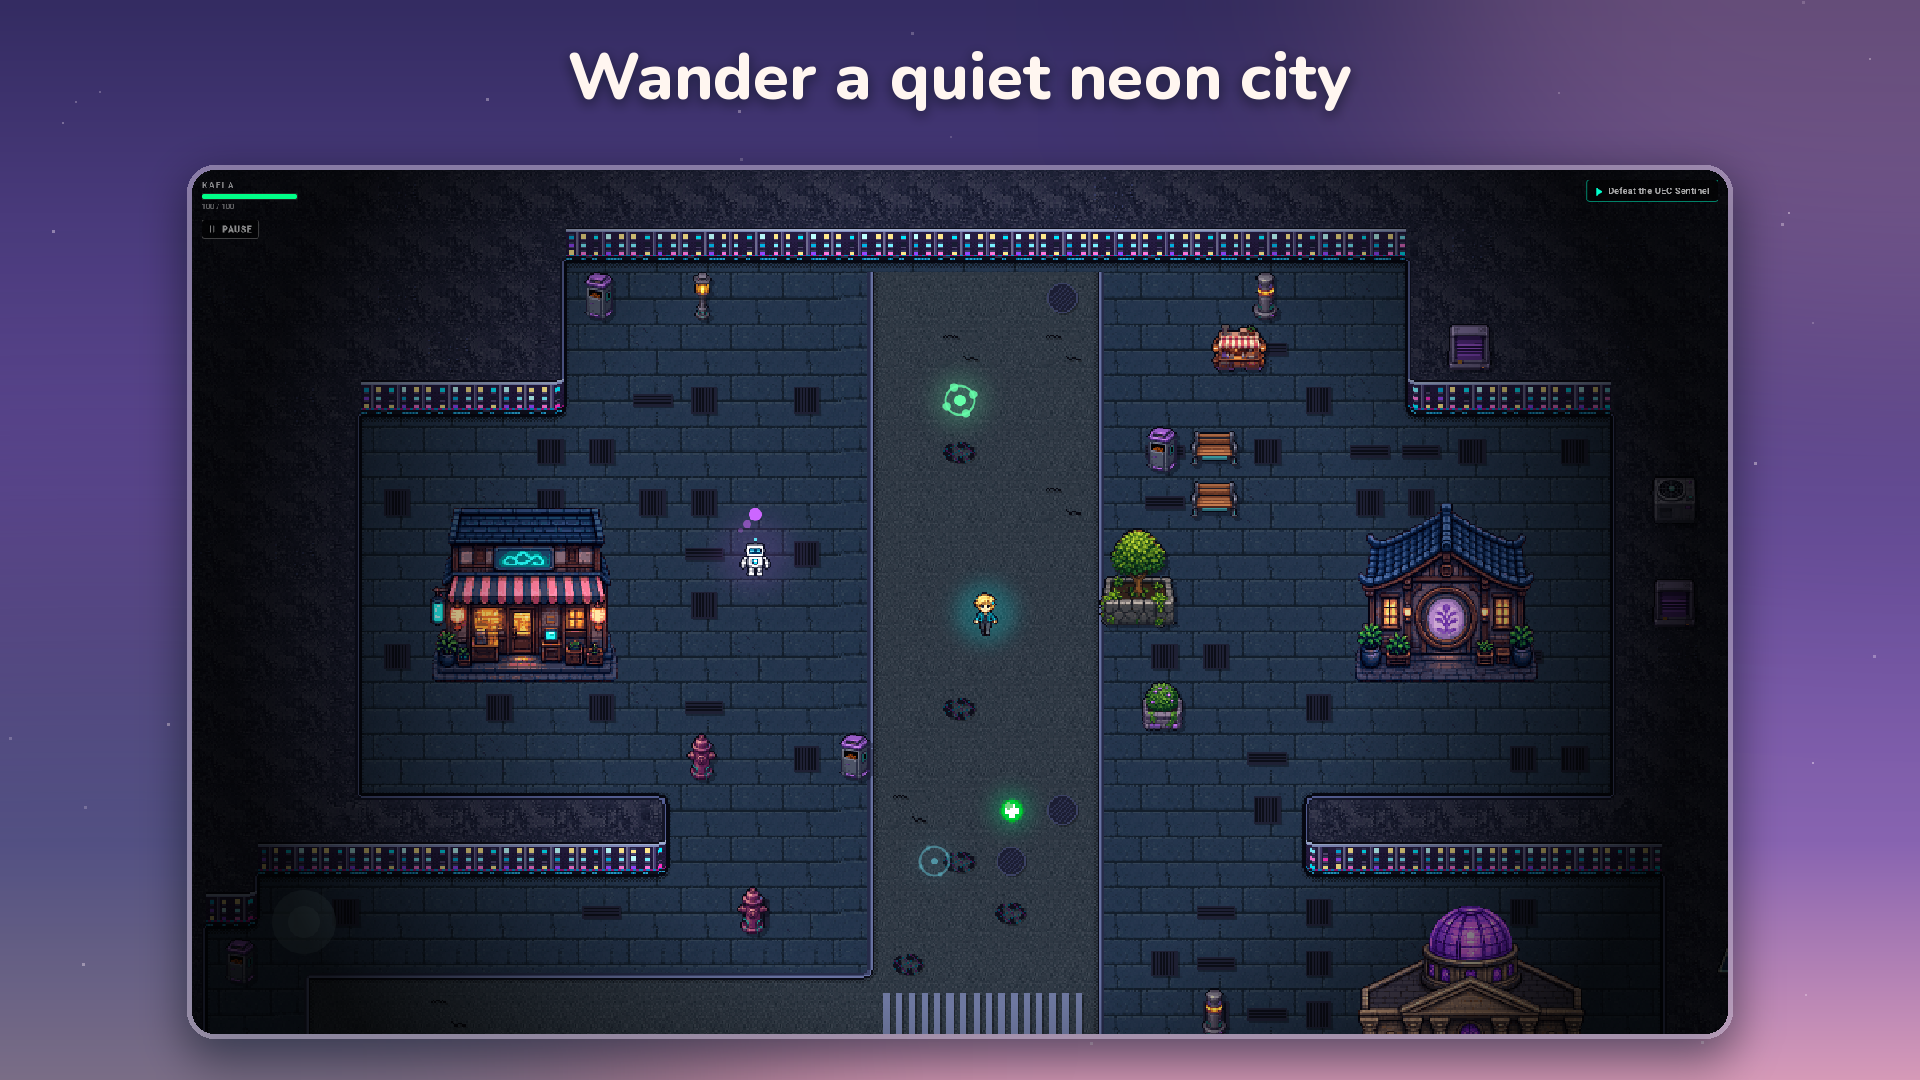
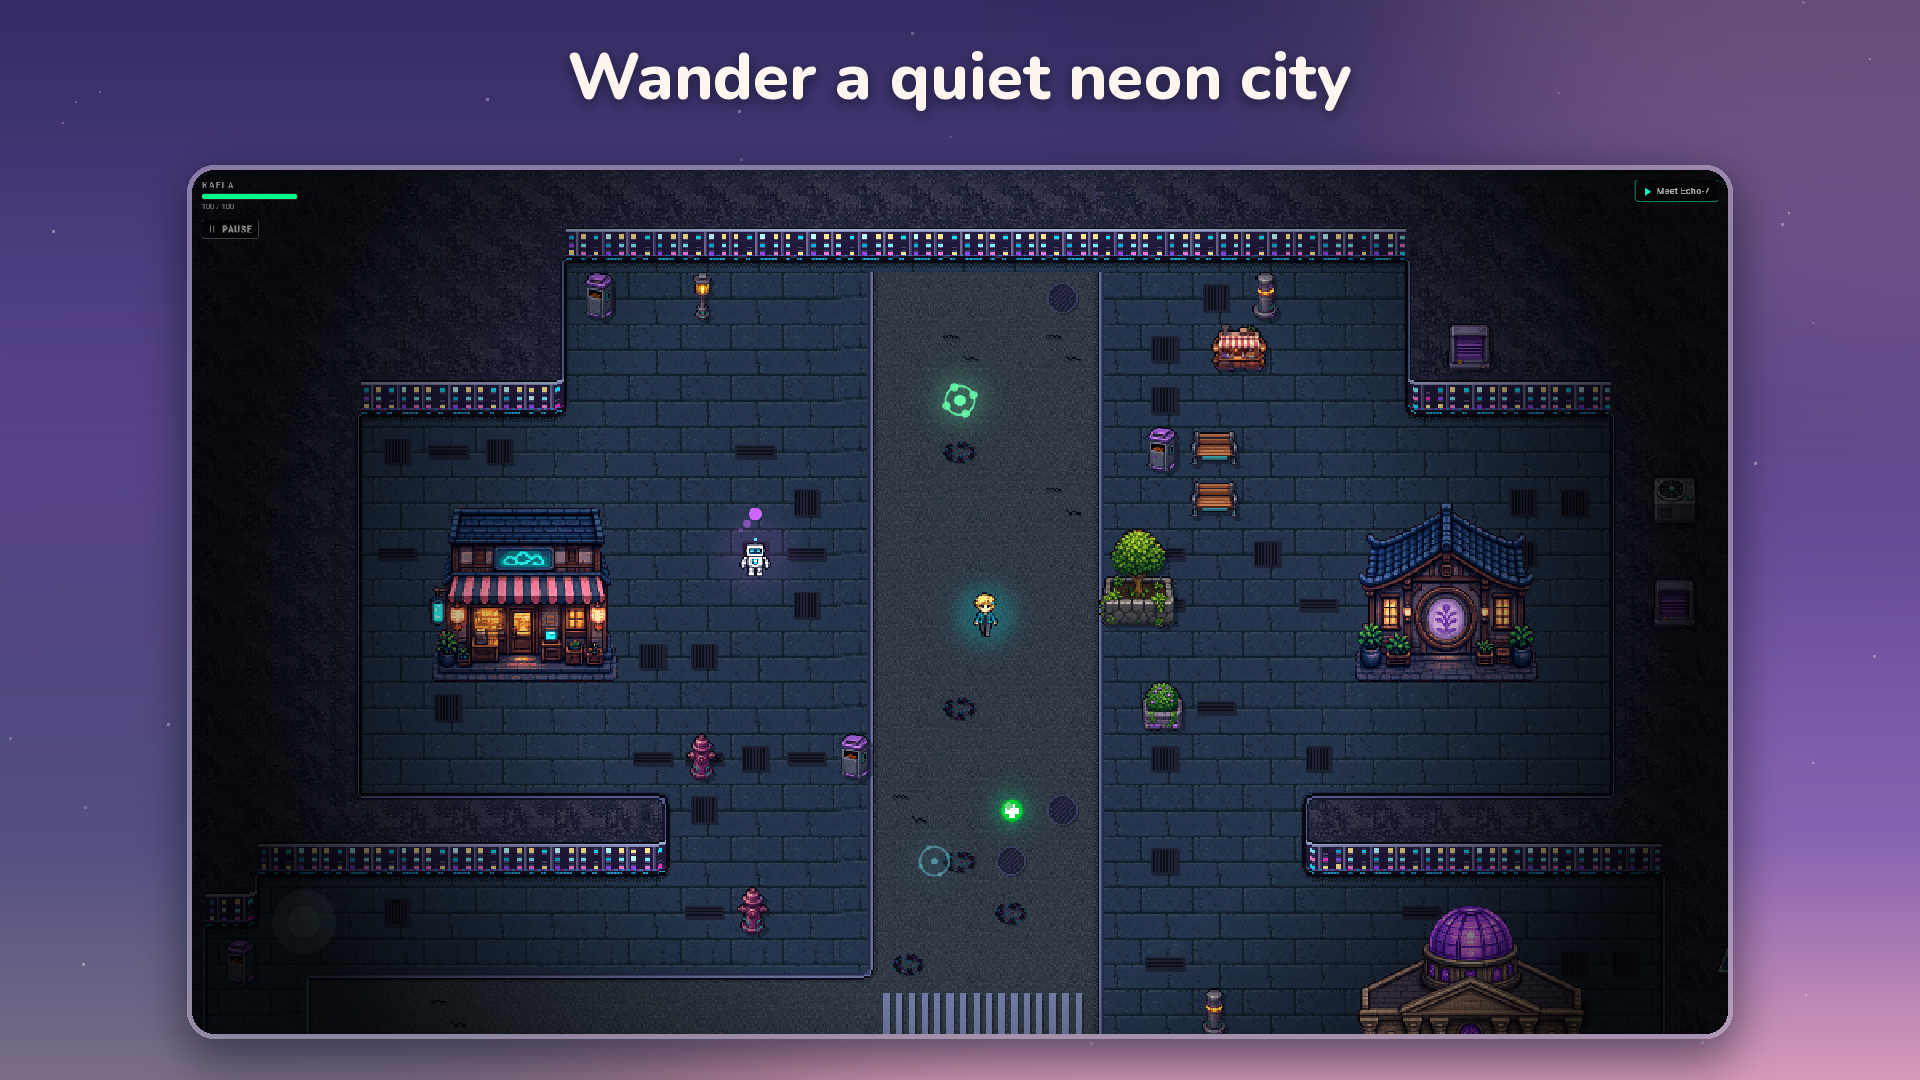
Calmer wording and reframed store shots 3 and 5 (#15)

diff --git a/lib/cyberpunk_space_rpg/game/custom_map_game.dart b/lib/cyberpunk_space_rpg/game/custom_map_game.dart
@@ -232,7 +232,7 @@ class IntroScreen extends StatelessWidget {
             mainAxisSize: MainAxisSize.min,
             children: [
               _CyberButton(
-                label: 'BEGIN MISSION',
+                label: 'BEGIN JOURNEY',
                 onTap: () => Navigator.of(context).pushReplacement(
                     MaterialPageRoute(builder: (_) => const CustomMapGameScreen())),
               ),
@@ -959,7 +959,7 @@ class _VictoryScreen extends StatelessWidget {
           child: Column(
             mainAxisSize: MainAxisSize.min,
             children: [
-              const Text('MISSION COMPLETE',
+              const Text('GAIA REMEMBERS',
                   style: TextStyle(
                       color: Color(0xFF00FFCC),
                       fontSize: 32,
@@ -1174,7 +1174,7 @@ class _CalmLayer extends StatelessWidget {
                         fontStyle: FontStyle.italic,
                         letterSpacing: 2)),
                 SizedBox(height: 10),
-                Text('signal lost · returning to the last checkpoint',
+                Text('returning to the last checkpoint',
                     style: TextStyle(color: Colors.white30, fontSize: 11, letterSpacing: 1.5)),
               ]),
             ),

diff --git a/lib/cyberpunk_space_rpg/game/game_state.dart b/lib/cyberpunk_space_rpg/game/game_state.dart
@@ -14,7 +14,7 @@ class GameState {
   static final portalUnlocked = ValueNotifier<bool>(false);
 
   /// Shown when the game is finished.
-  static const endingText = 'Gaia remembers. The Aetherians live on.';
+  static const endingText = 'The Aetherians live on.';
 
   // 1 woods, 2 city, 3 ruins (0 before any map is ready).
   static int _level = 0;
